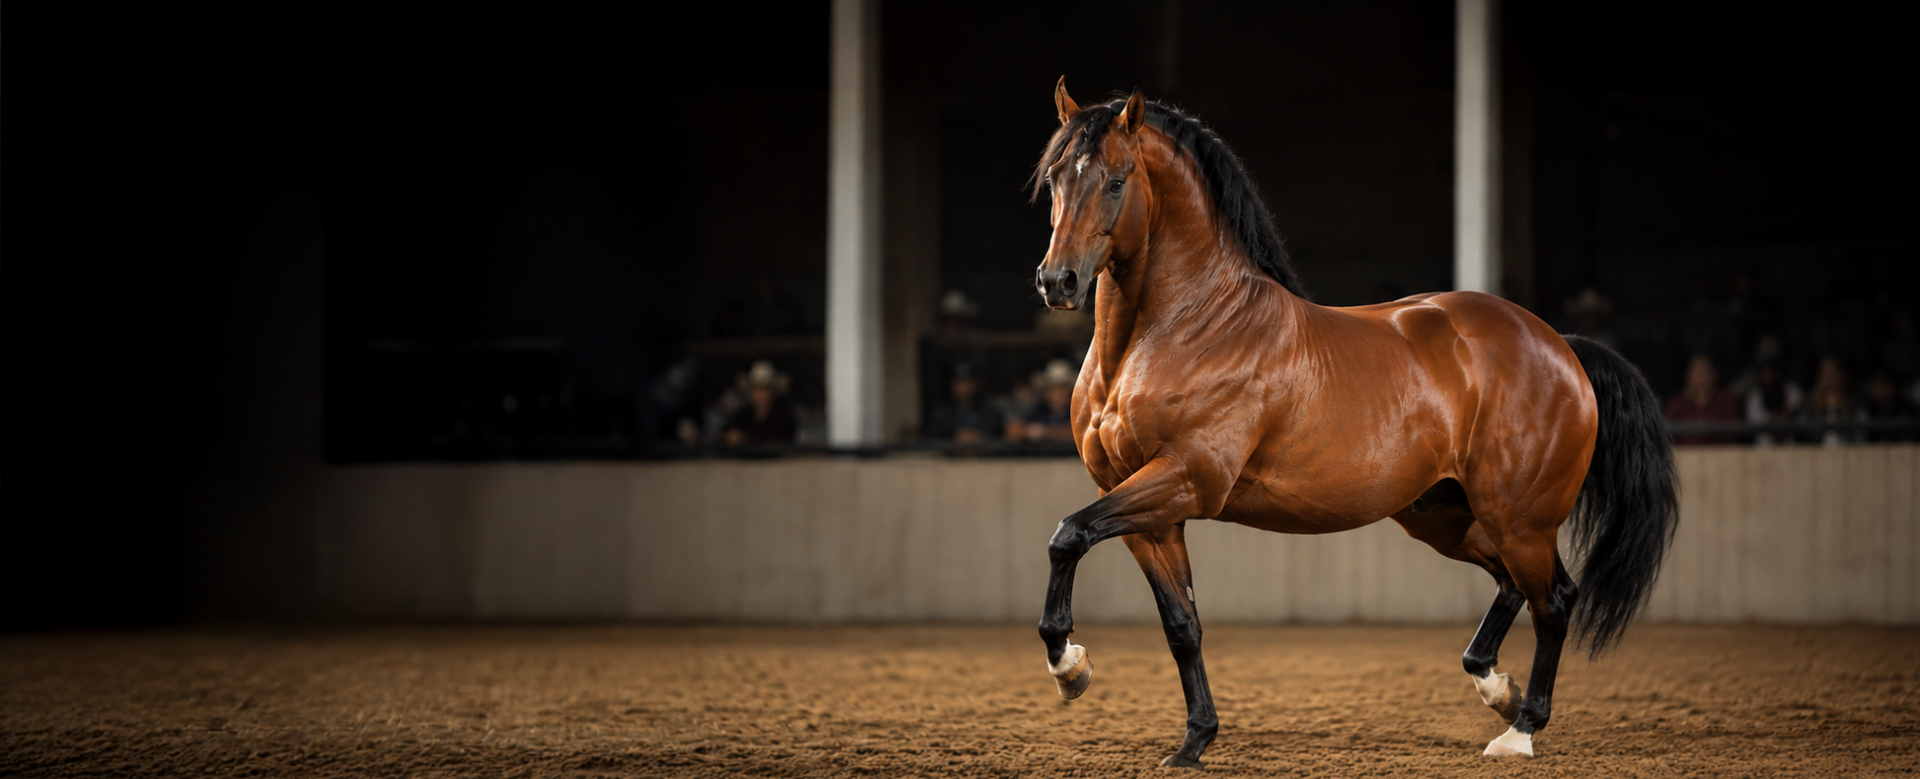
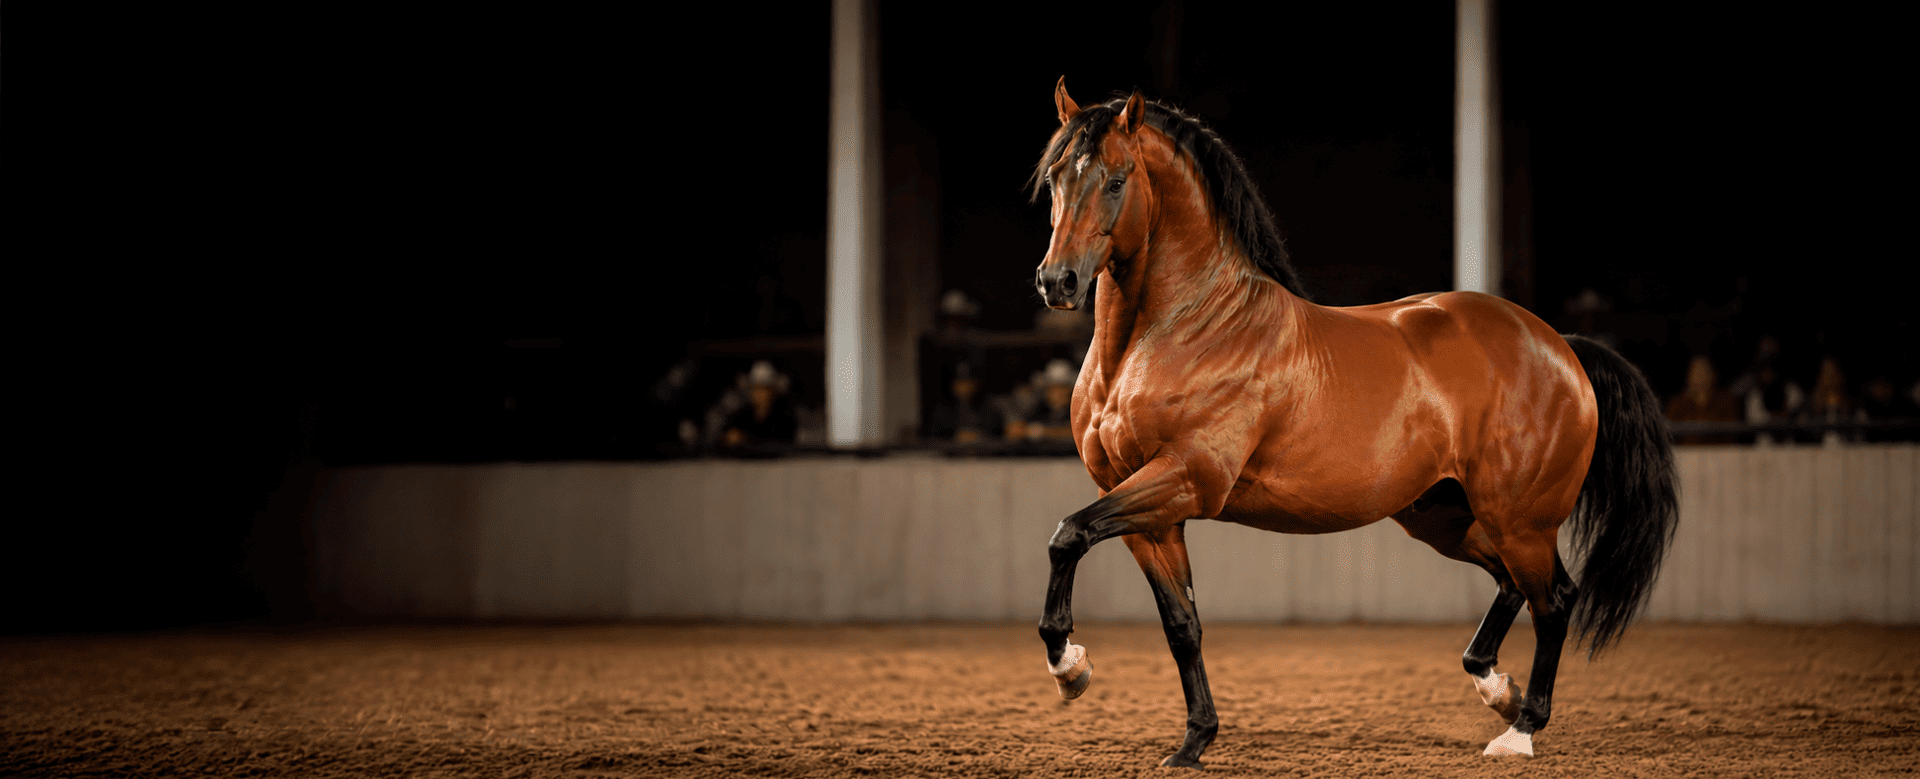
New changes

diff --git a/index.html b/index.html
@@ -739,6 +739,12 @@
                                     <li><i class="fas fa-check-circle"></i>Calidad constante certificada.</li>
                                 </ul>
                                 <!-- <div class="btn-box"><a href="about.html" class="theme-btn btn-one">Conoce más</a></div> -->
+                                <!-- TODO: reemplazar VIDEO_ID con el ID del video de YouTube -->
+                                <div class="btn-box">
+                                    <a href="https://youtu.be/U3KkrwnLlUo?si=vSm21TGBAnHrg-le"
+                                        class="theme-btn btn-one lightbox-image" data-caption=""><i
+                                            class="fas fa-play mr_10"></i>Ver video</a>
+                                </div>
                             </div>
                         </div>
                     </div>
@@ -764,118 +770,118 @@
 
 
         <!-- course-section -->
-      c
-            <div class="bg-layer"
-                style="background-image: linear-gradient(to right, rgba(0, 0, 0, 0.4),rgba(0, 0, 0, 0.04)),url(assets/images/resource/Fondo2.png);">
+        c
+        <div class="bg-layer"
+            style="background-image: linear-gradient(to right, rgba(0, 0, 0, 0.4),rgba(0, 0, 0, 0.04)),url(assets/images/resource/Fondo2.png);">
+        </div>
+        <div class="auto-container">
+            <div class="sec-title centred mb_55">
+                <span class="sub-title">Casos de éxito</span>
+                <h2>Transformaciones reales, resultados medibles</h2>
             </div>
-            <div class="auto-container">
-                <div class="sec-title centred mb_55">
-                    <span class="sub-title">Casos de éxito</span>
-                    <h2>Transformaciones reales, resultados medibles</h2>
-                </div>
-                <div class="row clearfix">
-                    <div class="col-lg-4 col-md-6 col-sm-12 course-block">
-                        <div class="course-block-one">
-                            <div class="inner-box">
-                                <div class="image-box">
-                                    <figure class="image"><img src="assets/images/balance/caso-exito-balance.jpg"
-                                            alt="">
-                                    </figure>
-                                    <figure class="overlay-image"><img
-                                            src="assets/images/balance/caso-exito-balance.jpg" alt="">
-                                    </figure>
-                                </div>
-                                <div class="lower-content">
-                                    <div class="icon-box"><i class="icon-22"></i></div>
-                                    <h3>RESULTADOS EXTRAORDINARIOS</h3>
-                                    <p><strong>Cuando la nutrición devuelve el potencial</strong></p>
-                                    <ul>
-                                        <li><strong>Potrillo:</strong> Cuarto de Milla de 4 años, mantenimiento.</li>
-                                        <li><strong>Problema:</strong> Potrillo en mantenimiento, estaba muy bajo de
-                                            peso, con poca energía y lucía deprimido.</li>
-                                        <li><strong>Solución:</strong> GALOPE® BALANCE</li>
-                                        <li><strong>Resultado:</strong> Consumía como concentrado granos rolados y
-                                            rastrojo molido de maíz. Se le ofreció GALOPE® BALANCE durante 3 meses dónde
-                                            recuperó ¡64 kilos! Masa muscular en todo el cuerpo, cambio en el tono del
-                                            color del pelaje, mayor energía y concentración. "El cambio simplemente es
-                                            impresionante"</li>
-                                        <li><strong>Testimonio:</strong> Cuidador del potrillo, Lienzo Charro el Canelo,
-                                            Zacatecas, México
-                                        </li>
-
-                                    </ul>
-                                </div>
+            <div class="row clearfix">
+                <div class="col-lg-6 col-md-6 col-sm-12 course-block">
+                    <div class="course-block-one">
+                        <div class="inner-box">
+                            <div class="image-box">
+                                <figure class="image"><img src="assets/images/balance/caso-exito-balance-antes.jpg"
+                                        alt="">
+                                </figure>
+                                <figure class="overlay-image"><img
+                                        src="assets/images/balance/caso-exito-balance-despues.jpg" alt="">
+                                </figure>
                             </div>
-                        </div>
-                    </div>
-                    <div class="col-lg-4 col-md-6 col-sm-12 course-block">
-                        <div class="course-block-one">
-                            <div class="inner-box">
-                                <div class="image-box">
-                                    <figure class="image"><img src="assets/images/zen/caso-exito-zen.jpg" alt="">
-                                    </figure>
-                                    <figure class="overlay-image"><img src="assets/images/zen/caso-exito-zen.jpg"
-                                            alt="">
-                                    </figure>
-                                </div>
-                                <div class="lower-content">
-                                    <div class="icon-box"><i class="icon-10"></i></div>
-                                    <h3>CONTROL Y RENDIMIENTO</h3>
-                                    <p><strong>Recuperando el potencial del atleta equino</strong></p>
-                                    <ul>
-                                        <li><strong>Caballo:</strong> Cuarto de Milla raza ligera de 5 años, caballo de
-                                            carreras.</li>
-                                        <li><strong>Problema:</strong> El caballo era sumamente agresivo, nervioso y muy
-                                            bajo de peso.</li>
-                                        <li><strong>Solución:</strong> GALOPE® ZEN</li>
-                                        <li><strong>Resultado:</strong> Se le ofreció GALOPE® ZEN y el cambio se muestra
-                                            a 30 días de ofrecer el producto, en solo 30 días el animal recuperó
-                                            significativamente masa muscular en todo su cuerpo, el ejemplar ya se deja
-                                            montar, disminuyó significativamente la agresividad y el nerviosismo.</li>
-                                        <li><strong>Testimonio:</strong> Dueño del ejemplar, Cuadra Mecánicos Querétaro,
-                                            México</li>
+                            <div class="lower-content">
+                                <div class="icon-box"><i class="icon-22"></i></div>
+                                <h3>RESULTADOS EXTRAORDINARIOS</h3>
+                                <p><strong>Cuando la nutrición devuelve el potencial</strong></p>
+                                <ul>
+                                    <li><strong>Potrillo:</strong> Cuarto de Milla de 4 años, mantenimiento.</li>
+                                    <li><strong>Problema:</strong> Potrillo en mantenimiento, estaba muy bajo de
+                                        peso, con poca energía y lucía deprimido.</li>
+                                    <li><strong>Solución:</strong> GALOPE® BALANCE</li>
+                                    <li><strong>Resultado:</strong> Consumía como concentrado granos rolados y
+                                        rastrojo molido de maíz. Se le ofreció GALOPE® BALANCE durante 3 meses dónde
+                                        recuperó ¡64 kilos! Masa muscular en todo el cuerpo, cambio en el tono del
+                                        color del pelaje, mayor energía y concentración. "El cambio simplemente es
+                                        impresionante"</li>
+                                    <li><strong>Testimonio:</strong> Cuidador del potrillo, Lienzo Charro el Canelo,
+                                        Zacatecas, México
+                                    </li>
 
-                                    </ul>
-                                </div>
-                            </div>
-                        </div>
-                    </div>
-                    <div class="col-lg-4 col-md-6 col-sm-12 course-block">
-                        <div class="course-block-one">
-                            <div class="inner-box">
-                                <div class="image-box">
-                                    <figure class="image"><img
-                                            src="assets/images/reproductoras/caso-exito-reproductoras.jpg" alt="">
-                                    </figure>
-                                    <figure class="overlay-image"><img
-                                            src="assets/images/reproductoras/caso-exito-reproductoras.jpg" alt="">
-                                    </figure>
-                                </div>
-                                <div class="lower-content">
-                                    <div class="icon-box"><i class="icon-14"></i></div>
-                                    <h3>GESTACIÓN <br> EXITOSA</h3>
-                                    <p><strong>Nutrición que impulsa la reproducción equina</strong></p>
-                                    <ul>
-                                        <li><strong>Yegua: </strong>Cuarto de Milla de 8 años.</li>
-                                        <li><strong>Problema: </strong>No podía quedar gestante, incluso varios
-                                            especialistas la revisaron.</li>
-                                        <li><strong>Solución: </strong>GALOPE® REPRODUCTORAS</li>
-                                        <li><strong>Resultado: </strong>Se le ofreció el alimento GALOPE® REPRODUCTORAS,
-                                            con nutrientes de calidad y la yegua logró quedar gestante.</li>
-                                        <li><strong>Testimonio: </strong>Dr. Martín Alejandro Sánchez Córdova, Médico
-                                            Especialista en Reproducción Equina.</li>
-
-                                    </ul>
-                                </div>
+                                </ul>
                             </div>
                         </div>
                     </div>
                 </div>
-                <div class="more-btn pt_40 centred">
-                    <a href="contact.html" class="theme-btn btn-one">Contacta a uno de nuestros especialistas en
-                        nutrición equina</a>
+                <div class="col-lg-6 col-md-6 col-sm-12 course-block">
+                    <div class="course-block-one">
+                        <div class="inner-box">
+                            <div class="image-box">
+                                <figure class="image"><img src="assets/images/zen/caso-exito-zen-antes.jpg" alt="">
+                                </figure>
+                                <figure class="overlay-image"><img src="assets/images/zen/caso-exito-zen-despues.jpg"
+                                        alt="">
+                                </figure>
+                            </div>
+                            <div class="lower-content">
+                                <div class="icon-box"><i class="icon-10"></i></div>
+                                <h3>CONTROL Y RENDIMIENTO</h3>
+                                <p><strong>Recuperando el potencial del atleta equino</strong></p>
+                                <ul>
+                                    <li><strong>Caballo:</strong> Cuarto de Milla raza ligera de 5 años, caballo de
+                                        carreras.</li>
+                                    <li><strong>Problema:</strong> El caballo era sumamente agresivo, nervioso y muy
+                                        bajo de peso.</li>
+                                    <li><strong>Solución:</strong> GALOPE® ZEN</li>
+                                    <li><strong>Resultado:</strong> Se le ofreció GALOPE® ZEN y el cambio se muestra
+                                        a 30 días de ofrecer el producto, en solo 30 días el animal recuperó
+                                        significativamente masa muscular en todo su cuerpo, el ejemplar ya se deja
+                                        montar, disminuyó significativamente la agresividad y el nerviosismo.</li>
+                                    <li><strong>Testimonio:</strong> Dueño del ejemplar, Cuadra Mecánicos Querétaro,
+                                        México</li>
+
+                                </ul>
+                            </div>
+                        </div>
+                    </div>
                 </div>
+                <!-- <div class="col-lg-4 col-md-6 col-sm-12 course-block">
+                    <div class="course-block-one">
+                        <div class="inner-box">
+                            <div class="image-box">
+                                <figure class="image"><img
+                                        src="assets/images/reproductoras/caso-exito-reproductoras.jpg" alt="">
+                                </figure>
+                                <figure class="overlay-image"><img
+                                        src="assets/images/reproductoras/caso-exito-reproductoras.jpg" alt="">
+                                </figure>
+                            </div>
+                            <div class="lower-content">
+                                <div class="icon-box"><i class="icon-14"></i></div>
+                                <h3>GESTACIÓN <br> EXITOSA</h3>
+                                <p><strong>Nutrición que impulsa la reproducción equina</strong></p>
+                                <ul>
+                                    <li><strong>Yegua: </strong>Cuarto de Milla de 8 años.</li>
+                                    <li><strong>Problema: </strong>No podía quedar gestante, incluso varios
+                                        especialistas la revisaron.</li>
+                                    <li><strong>Solución: </strong>GALOPE® REPRODUCTORAS</li>
+                                    <li><strong>Resultado: </strong>Se le ofreció el alimento GALOPE® REPRODUCTORAS,
+                                        con nutrientes de calidad y la yegua logró quedar gestante.</li>
+                                    <li><strong>Testimonio: </strong>Dr. Martín Alejandro Sánchez Córdova, Médico
+                                        Especialista en Reproducción Equina.</li>
+
+                                </ul>
+                            </div>
+                        </div>
+                    </div>
+                </div> -->
             </div>
+            <div class="more-btn pt_40 centred">
+                <a href="contact.html" class="theme-btn btn-one">Contacta a uno de nuestros especialistas en
+                    nutrición equina</a>
+            </div>
+        </div>
         </section>
         <!-- course-section end-->
 
@@ -1501,7 +1507,8 @@
                                     <h5>INFORMACIÓN IMPORTANTE:</h5>
                                     <br>
                                     <p>"Todos los días debes ofrecer a tus caballos los kilos/día de materia seca tanto
-                                        de forraje como de alimento extruido, científicamente probados (consultar tablas de
+                                        de forraje como de alimento extruido, científicamente probados (consultar tablas
+                                        de
                                         alimentación de GALOPE®). También es importante la condición corporal, cuello y
                                         posteriores, y
                                         cómo obtener el peso de los caballos."</p>

diff --git a/casos.html b/casos.html
@@ -50,10 +50,15 @@
 
     <style>
         @media (max-width: 991px) {
-            #gallery-container { grid-template-columns: repeat(2, 1fr) !important; }
+            #gallery-container {
+                grid-template-columns: repeat(2, 1fr) !important;
+            }
         }
+
         @media (max-width: 575px) {
-            #gallery-container { grid-template-columns: 1fr !important; }
+            #gallery-container {
+                grid-template-columns: 1fr !important;
+            }
         }
     </style>
 </head>
@@ -354,7 +359,8 @@
                 <div class="contact-info">
                     <h4>Contacto</h4>
                     <ul>
-                        <li>Parque industrial Bernardo Quintana, Av. de las Fuentes No.14, Parque Industrial Bernardo Quintana, C.P. 76246 El Marqués, Querétaro</li>
+                        <li>Parque industrial Bernardo Quintana, Av. de las Fuentes No.14, Parque Industrial Bernardo
+                            Quintana, C.P. 76246 El Marqués, Querétaro</li>
                         <li><a href="tel:+524421961000">+52 (442) 196-1000</a></li>
                         <li><a href="mailto:contacto@gponutec.com">contacto@gponutec.com</a></li>
                     </ul>
@@ -398,9 +404,9 @@
                         A PARTIR DE LOS 15 DÍAS DE USO CONSTANTE
                     </h2>
                     <p style="font-size:15px; color:#555; line-height:1.6;">
-                        Si bien el beneficio metabólico completo se establece entre las 4 y 6 semanas, la
-                        transformación física y de comportamiento es un proceso evolutivo que continúa
-                        optimizándose mes con mes.
+                        Si bien el beneficio metabólico completo se establece desde las 2 semanas y las 6 semanas, la
+                        transformación física y de comportamiento es un proceso evolutivo que continúa optimizándose mes
+                        con mes.
                     </p>
                 </div>
                 <div class="row clearfix">
@@ -597,14 +603,14 @@
             }
 
             items.forEach(c => {
-                const productsText = c.products_combo
+                const productsText = (c.products_combo
                     ? c.products_combo.map(p => `GALOPE® ${productLabels[p] || p}`).join(' + ')
-                    : `GALOPE® ${productLabels[c.product] || c.product}`;
+                    : `GALOPE® ${productLabels[c.product] || c.product}`).toUpperCase();
                 const card = document.createElement('div');
                 card.style.cssText = 'background:#fff; border-radius:12px; overflow:hidden; box-shadow:0 2px 12px rgba(0,0,0,0.08); display:flex; flex-direction:column;';
                 card.innerHTML = `
                 <div style="padding:14px 14px 0;">
-                    <div style="display:flex; justify-content:space-between; font-size:11px; font-weight:700; letter-spacing:0.06em; color:#1a1a1a; margin-bottom:8px;">
+                    <div style="display:flex; justify-content:space-between; font-size:11px; font-weight:700; letter-spacing:0.06em; color:#1a1a1a; font-family:'Collier', sans-serif; margin-bottom:8px;">
                         <span>ANTES</span>
                         <span>DESPUÉS</span>
                     </div>
@@ -616,7 +622,7 @@
                 </div>
                 <div style="padding:16px 16px 18px; text-align:center; flex:1; display:flex; flex-direction:column; justify-content:space-between;">
                     <h3 style="font-size:15px;font-weight:700;margin:0 0 10px;color:#1a1a1a;letter-spacing:0.01em;">${c.title}</h3>
-                    <p style="font-size:12px;font-weight:600;color:#555;line-height:1.6;margin:10px 0 0;border-top:1px solid #eee;padding-top:10px;">
+                    <p style="font-size:12px;font-weight:600;color:#555;line-height:1.6;margin:10px 0 0;border-top:1px solid #eee;padding-top:10px;font-family:'Collier', sans-serif;">
                         ${productsText}
                     </p>
                 </div>
